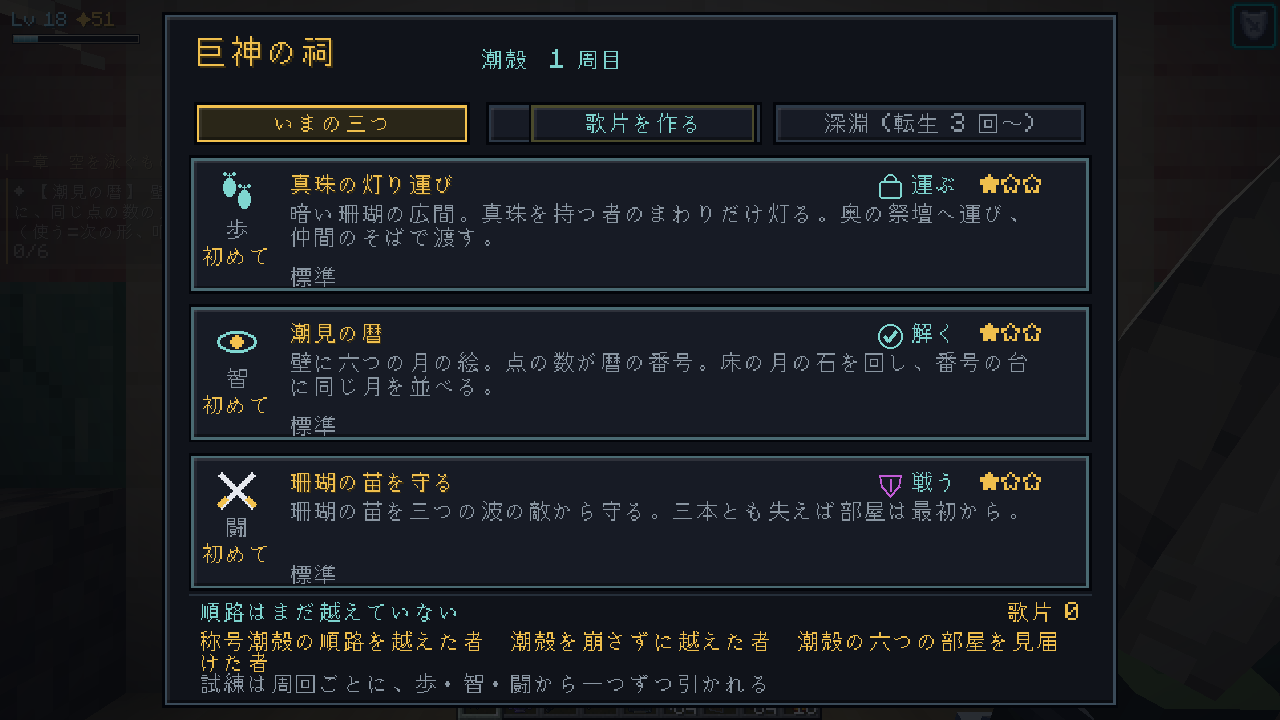
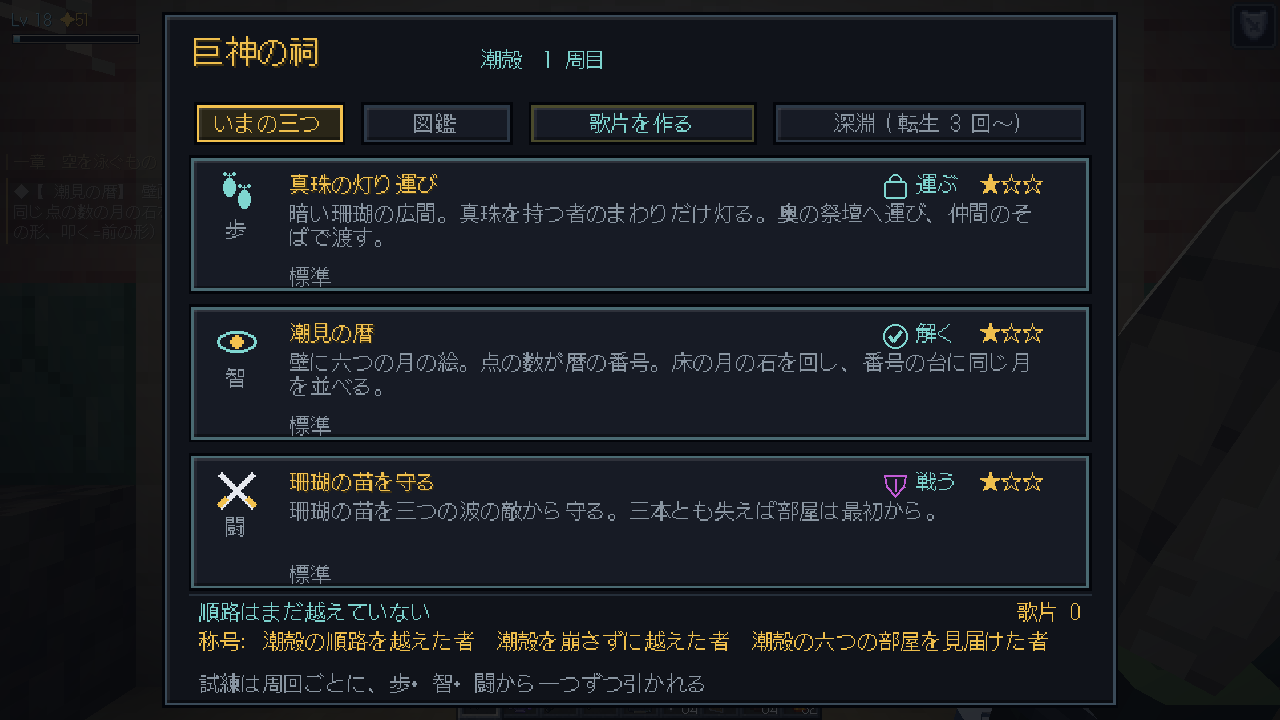
Trial board: narrower page tabs so the codex tab is no longer hidden under the make-a-shard button

diff --git a/src/main/java/jp/revati/skyabyss/client/trial/TrialBoardScreen.java b/src/main/java/jp/revati/skyabyss/client/trial/TrialBoardScreen.java
@@ -46,6 +46,8 @@ public class TrialBoardScreen extends Screen implements jp.revati.skyabyss.clien
 
     private static final int ABYSS_W = 118;
     private static final int CRAFT_W = 86;
+    // 頁の札の幅。二つの札・歌片を作る・深淵のつまみが一列に並んで重ならない幅 (360 - 余白 24 - 86 - 118 - 間 18 = 114 を二つに)
+    private static final int TAB_W = 57;
 
     private final jp.revati.skyabyss.client.ui.UiFit fit = new jp.revati.skyabyss.client.ui.UiFit();
     private TrialBoardNet.Open data;
@@ -101,8 +103,8 @@ public class TrialBoardScreen extends Screen implements jp.revati.skyabyss.clien
         int py = 0;
         if (button == 0 && my >= py + 34 && my < py + 50) {
             for (int t = 0; t < 2; t++) {
-                int tx = px + 12 + t * 110;
-                if (mx >= tx && mx < tx + 104) {
+                int tx = px + 12 + t * (TAB_W + 6);
+                if (mx >= tx && mx < tx + TAB_W) {
                     tab = t;
                     return true;
                 }
@@ -208,11 +210,11 @@ public class TrialBoardScreen extends Screen implements jp.revati.skyabyss.clien
         // 頁
         String[] tabs = {"gui.skyabyss.trial.tab.now", "gui.skyabyss.trial.tab.codex"};
         for (int t = 0; t < 2; t++) {
-            int tx = px + 12 + t * 110;
+            int tx = px + 12 + t * (TAB_W + 6);
             boolean on = tab == t;
-            frame(g, tx, py + 34, 104, 16, on ? GOLD : 0x2C3846, on ? 0x2A2618 : CARD);
+            frame(g, tx, py + 34, TAB_W, 16, on ? GOLD : 0x2C3846, on ? 0x2A2618 : CARD);
             Component label = Component.translatable(tabs[t]);
-            g.drawString(font, label, tx + 52 - font.width(label) / 2, py + 38, argb(1f, on ? GOLD : DIM), false);
+            g.drawString(font, label, tx + TAB_W / 2 - font.width(label) / 2, py + 38, argb(1f, on ? GOLD : DIM), false);
         }
         renderAbyssToggle(g, font, px + W - 12 - ABYSS_W, py + 34, mouseX, mouseY);
         renderCraft(g, font, px + W - 12 - ABYSS_W - 6 - CRAFT_W, py + 34, mouseX, mouseY);
